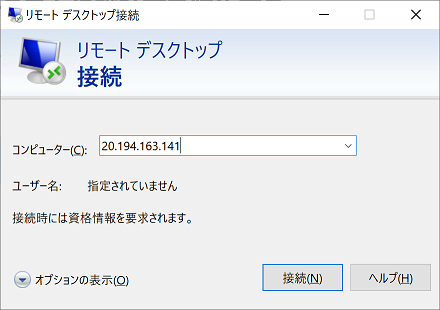
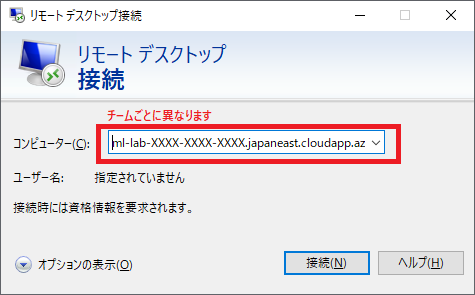
インターン冬の記載改訂を反映＋Azurelabsに合わせて変更

diff --git a/doc/connection/connection.md b/doc/connection/connection.md
@@ -1,40 +1,101 @@
 # 接続手順書
 - [接続手順書](#接続手順書)
-  - [ビルド用PCへ接続し、プログラムや設計書を編集する](#ビルド用pcへ接続しプログラムや設計書を編集する)
-  - [ビルド用PC以外からプログラムや設計書を参照する(読み取り専用)](#ビルド用pc以外からプログラムや設計書を参照する読み取り専用)
+  - [開発用PCへ接続する](#開発用pcへ接続する)
+  - [開発を始める](#開発を始める)
+  - [開発用PC以外からプログラムや設計書を参照する(読み取り専用)](#開発用pc以外からプログラムや設計書を参照する読み取り専用)
 
-## ビルド用PCへ接続し、プログラムや設計書を編集する
-1. スタートメニューを開き、「リモートデスクトップ接続」と検索して開く。  
+## 開発用PCへ接続する
+<details>
+<summary>Windowsの人</summary>
+
+1. スタートメニューを開き、「リモートデスクトップ接続」と検索して開いてください。  
   ![リモートデスクトップ接続](img/remote.png)
 
-  * Macの人は、App Storeを開いて、「microsoft remote desktop」で検索してください。  
-    2つ表示されるので、どちらかを「インストール」してください。  
-  ![Macリモートデスクトップ接続](img/mac_remote.png)
-
-1. チームごとに、決められたコンピュータに対して接続する。  
+1. チームごとに、決められたコンピュータに対して接続します。  
+  「コンピューター」に以下アドレスを記入して「接続」を押します。  
   ![リモートデスクトップ接続2](img/remote2.png)  
   __※接続先アドレスはZoomのチャットで連絡します。__
-    |チーム|コンピューター(PC name)|
+    |チーム|コンピューター|
     |-|-|
-    |1|xx.xx.xx.xx|
-    |2|xx.xx.xx.xx|
-    |3|xx.xx.xx.xx|
-    |4|xx.xx.xx.xx|
-    |5|xx.xx.xx.xx|
-1. 以下ユーザー名とパスワードでログインする。  
+    |1|ml-lab-XXX-XXX-XXX.japaneast.cloudapp.azure.com:XXX|
+    |2|ml-lab-XXX-XXX-XXX.japaneast.cloudapp.azure.com:XXX|
+    |3|ml-lab-XXX-XXX-XXX.japaneast.cloudapp.azure.com:XXX|
+    |4|ml-lab-XXX-XXX-XXX.japaneast.cloudapp.azure.com:XXX|
+    |5|ml-lab-XXX-XXX-XXX.japaneast.cloudapp.azure.com:XXX|
+
+1. 以下ユーザー名とパスワードを入力してOKします。  
+   自分のアカウント名がすでに入っている場合は、下のほうにある「その他」→「別のアカウントを使用する」を押してください。
   ![リモートデスクトップ接続3](img/remote3.png)
     |チーム|ユーザー名|パスワード|
     |-|-|-|
-    |1|intern1\intern1|intern1#####|
-    |2|intern2\intern2|intern2#####|
-    |3|intern3\intern3|intern3#####|
-    |4|intern4\intern4|intern4#####|
-    |5|intern5\intern5|intern5#####|
-1. ここからはチームメンバに画面共有して進めましょう。
-1. Slackを起動する。  
+    |共通|~\intern|intern#1|
+
+1. これで開発用PCにログインできました。  
+   ログイン出来たら、チームメンバに開発用PCの画面を共有して進めて行きましょう。
+2. 接続の練習はここまでです。  
+   リモートデスクトップを切断し、次の人に開発用PCに接続してもらいましょう。 
+   ![リモートデスクトップ接続4](img/remote4.png) 
+</details>
+<details>
+<summary>Macの人</summary>
+
+1. App Storeを開いて、「Microsoft Remote Desktop」で検索します。  
+    出てきたアプリを「インストール」して、インストールが終わったら「開く」を押してください。  
+  ![Macリモートデスクトップ接続](img/mac_remote.png)
+
+1. 最初に聞かれる内容は「Not now」を選択します。  
+  ![Macリモートデスクトップ接続2](img/mac_remote2.png)
+
+1. 「Add PC」を押します。  
+  ![Macリモートデスクトップ接続3](img/mac_remote3.png)
+
+1. チームごとに、決められたコンピュータに対して接続します。  
+  出てきた画面の「PC name」に以下を入れて、「Add」を押します。  
+  __※接続先アドレスはZoomのチャットで連絡します。__
+    |チーム|PC name|
+    |-|-|
+    |1|ml-lab-XXX-XXX-XXX.japaneast.cloudapp.azure.com:XXX|
+    |2|ml-lab-XXX-XXX-XXX.japaneast.cloudapp.azure.com:XXX|
+    |3|ml-lab-XXX-XXX-XXX.japaneast.cloudapp.azure.com:XXX|
+    |4|ml-lab-XXX-XXX-XXX.japaneast.cloudapp.azure.com:XXX|
+    |5|ml-lab-XXX-XXX-XXX.japaneast.cloudapp.azure.com:XXX|
+
+    ![Macリモートデスクトップ接続4](img/mac_remote4.png)
+
+1. 作成されたボタンをダブルクリックします。  
+  ![Macリモートデスクトップ接続5](img/mac_remote5.png)
+
+1. ユーザー名とパスワードに以下を入れて「Continue」を押します。
+    |チーム|Username|Password|
+    |-|-|-|
+    |共通|intern|intern#1|
+
+    ![Macリモートデスクトップ接続6](img/mac_remote6.png)
+
+1. 以下のようなメッセージが出た場合、「Continue」を押します。  
+  ![Macリモートデスクトップ接続7](img/mac_remote7.png)
+
+1. これで開発用PCにログインできました。  
+   ログイン出来たら、チームメンバに開発用PCの画面を共有して進めて行きましょう。
+2. 接続の練習はここまでです。  
+   リモートデスクトップを切断(スタートメニュー→電源→切断)し、次の人に開発用PCに接続してもらいましょう。 
+   ![Macリモートデスクトップ接続8](img/mac_remote8.png) 
+</details>
+
+## 開発を始める
+
+1. チームメンバに開発用PCの画面を共有して進めましょう。
+
+1. 開発用PCでSlackを起動する。  
   Zoomのブレークアウトルームに移動後の、社員との連絡手段として使用します。  
-  アカウント・ワークスペース設定済みとなっているはずです。
-1. デスクトップにある「Z」のリンクを開く。  
+  アカウント・ワークスペース設定済みとなっています。
+
+1. 開発用PCのデスクトップにある「Z」のリンクを開き、  
+   「マイクロマウス開発手順書.pdf」を開きます。  
+
+1. 手順書を参考に、プログラムがビルドできる(p7まで実施できる)ことを確認し、プログラム開発に入りましょう。
+
+* その他の格納されているファイルは以下です。
     |格納ファイルフォルダ名|内容|
     |-|-|
     |Z:\Internship_program|マイクロマウス用プログラム|
@@ -43,23 +104,24 @@
     |Z:\マイクロマウス開発手順書.pdf|プログラムのビルド手順書|
     |Z:\マイクロマウス単体テスト手順書.pdf|単体テストの手順書|
     |Z:\接続手順書|本資料へのショートカット|
-1. 「マイクロマウス開発手順書.pdf」を開く
-1. 手順書を参考に、プログラムがビルドできる(p7まで実施できる)ことを確認し、プログラム開発に入る。
+
 * (参考)PCには以下ツールが入っています。
   * マイクロマウス用コンパイラ(CS+)・・・マイクロマウス用プログラムのコンパイラ
-  * 次世代設計ツール NextDesign (デンソークリエイト製ツール！)・・・設計書のエディタ
+  * 次世代設計ツール NextDesign (デンソークリエイト製ツール)・・・設計書のエディタ
 
-## ビルド用PC以外からプログラムや設計書を参照する(読み取り専用)
+## 開発用PC以外からプログラムや設計書を参照する(読み取り専用)
+以下のリンクは、開発用PC以外(各自のPC)からでも開くことができます。
+
 * 開発手順書
-  * https://github.com/dcinc-edu2020/intern2021/blob/master/doc/build/マイクロマウス開発手順書.pdf
+  * https://github.com/dcincedu/intern/blob/master/doc/build/マイクロマウス開発手順書.pdf
 * 設計書
-  * https://dcinc-edu2020.github.io/intern2021/doc/design/index.html
+  * https://dcincedu.github.io/intern/doc/design/index.html
 * マイクロマウス用プログラム
-  * https://github.com/dcinc-edu2020/intern2021/tree/master/program/Internship_program
+  * https://github.com/dcincedu/intern/tree/master/program/Internship_program
 * 単体テスト手順書
-  * https://github.com/dcinc-edu2020/intern2021/blob/master/doc/build/マイクロマウス単体テスト手順書.pdf
+  * https://github.com/dcincedu/intern/blob/master/doc/build/マイクロマウス単体テスト手順書.pdf
 * 単体テスト用プログラム
-  * https://github.com/dcinc-edu2020/intern2021/tree/master/program/unit_test
+  * https://github.com/dcincedu/intern/tree/master/program/unit_test
 
 * 走行デモ動画
-  * https://github.com/dcinc-edu2020/intern2021/tree/master/doc/movie
+  * https://github.com/dcincedu/intern/tree/master/doc/movie
